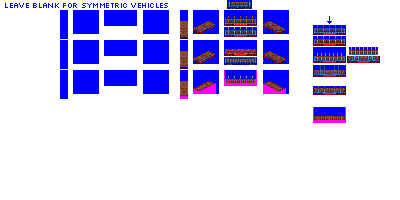
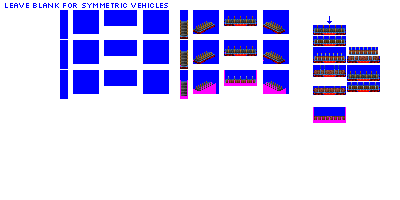
Change: sprites complete for Bolster Wagons

diff --git a/src/vehicles/bolster_cars.py b/src/vehicles/bolster_cars.py
@@ -4,9 +4,8 @@ from train import BolsterCarConsist, FreightCar
 def main():
     # --------------- pony ----------------------------------------------------------------------
 
-    """
     consist = BolsterCarConsist(roster_id='pony',
-                                  base_numeric_id=1140,
+                                  base_numeric_id=5280,
                                   gen=1,
                                   subtype='A',
                                   sprites_complete=True)
@@ -17,7 +16,7 @@ def main():
     # no gen 2A, gen 1A continues in pony
 
     consist = BolsterCarConsist(roster_id='pony',
-                                  base_numeric_id=1150,
+                                  base_numeric_id=5290,
                                   gen=2,
                                   subtype='B',
                                   sprites_complete=True)
@@ -26,7 +25,7 @@ def main():
                      chassis='4_axle_gapped_24px')
 
     consist = BolsterCarConsist(roster_id='pony',
-                                  base_numeric_id=1350,
+                                  base_numeric_id=5300,
                                   gen=3,
                                   subtype='A',
                                   sprites_complete=True)
@@ -35,7 +34,7 @@ def main():
                      chassis='2_axle_filled_16px')
 
     consist = BolsterCarConsist(roster_id='pony',
-                                  base_numeric_id=1160,
+                                  base_numeric_id=5310,
                                   gen=3,
                                   subtype='B',
                                   sprites_complete=True)
@@ -44,7 +43,7 @@ def main():
                      chassis='4_axle_gapped_24px')
 
     consist = BolsterCarConsist(roster_id='pony',
-                                  base_numeric_id=2550,
+                                  base_numeric_id=5320,
                                   gen=3,
                                   subtype='C',
                                   sprites_complete=True)
@@ -53,7 +52,7 @@ def main():
                      chassis='4_axle_gapped_32px')
 
     consist = BolsterCarConsist(roster_id='pony',
-                                  base_numeric_id=1560,
+                                  base_numeric_id=5330,
                                   gen=4,
                                   subtype='A',
                                   sprites_complete=True)
@@ -62,7 +61,7 @@ def main():
                      chassis='2_axle_filled_16px')
 
     consist = BolsterCarConsist(roster_id='pony',
-                                  base_numeric_id=2540,
+                                  base_numeric_id=5340,
                                   gen=4,
                                   subtype='B',
                                   sprites_complete=True)
@@ -71,7 +70,7 @@ def main():
                      chassis='4_axle_filled_24px')
 
     consist = BolsterCarConsist(roster_id='pony',
-                                  base_numeric_id=2530,
+                                  base_numeric_id=5350,
                                   gen=4,
                                   subtype='C',
                                   sprites_complete=True)
@@ -80,7 +79,7 @@ def main():
                      chassis='4_axle_gapped_32px')
 
     consist = BolsterCarConsist(roster_id='pony',
-                                  base_numeric_id=2520,
+                                  base_numeric_id=5360,
                                   gen=5,
                                   subtype='B',
                                   sprites_complete=True)
@@ -88,7 +87,6 @@ def main():
     consist.add_unit(type=FreightCar,
                      chassis='4_axle_filled_greebled_24px')
 
-    """
     consist = BolsterCarConsist(roster_id='pony',
                                   base_numeric_id=5250,
                                   gen=5,
@@ -98,22 +96,20 @@ def main():
     consist.add_unit(type=FreightCar,
                      chassis='4_axle_filled_greebled_32px')
 
-    """
     consist = BolsterCarConsist(roster_id='pony',
-                                  base_numeric_id=1630,
+                                  base_numeric_id=5260,
                                   gen=6,
                                   subtype='B',
                                   sprites_complete=True)
 
     consist.add_unit(type=FreightCar,
-                     chassis='4_axle_1cc_filled_24px')
+                     chassis='2_axle_1cc_filled_24px')
 
     consist = BolsterCarConsist(roster_id='pony',
-                                  base_numeric_id=1640,
+                                  base_numeric_id=5270,
                                   gen=6,
                                   subtype='C',
                                   sprites_complete=True)
 
     consist.add_unit(type=FreightCar,
                      chassis='4_axle_1cc_filled_32px')
-    """

diff --git a/src/polar_fox/constants.py b/src/polar_fox/constants.py
@@ -219,13 +219,13 @@ piece_vehicle_type_to_sprites_maps = {
                                       'coil': ['copper_coils_eye_longitudinal_1', 'steel_coils_eye_longitudinal_1', 'tarps_grey_1'], # tarps_grey_1 for DFLT
                                       'flat': ['barrels_silver_1', 'copper_coils_eye_to_sky_1', 'crates_1', 'ingots_1', 'logs_1',
                                                'lumber_planks_1', 'paper_coils_eye_to_sky_1', 'pipes_1',
-                                               'steel_coils_eye_to_sky_1', 'steel_wire_rod_1',
+                                               'steel_coils_eye_to_sky_1', 'steel_slab_1', 'steel_wire_rod_1',
                                                'tarps_grey_1', 'tarps_blue_1', 'tarps_gold_1', 'tarps_red_1'],
                                       'long_products': ['ingots_1', 'logs_1', 'lumber_planks_1', 'pipes_1',
-                                                        'steel_wire_rod_1', 'tarps_grey_1'], # tarps_grey_1 for DFLT
+                                                        'steel_slab_1', 'steel_wire_rod_1', 'tarps_grey_1'], # tarps_grey_1 for DFLT
                                       'open': ['barrels_silver_1', 'coffee_1', 'copper_coils_eye_to_sky_1', 'crates_1', 'fruit_1', 'ingots_1', 'logs_1',
                                                'lumber_planks_1', 'nuts_1', 'paper_coils_eye_to_sky_1', 'pipes_1',
-                                               'steel_coils_eye_to_sky_1', 'steel_wire_rod_1',
+                                               'steel_coils_eye_to_sky_1', 'steel_slab_1', 'steel_wire_rod_1',
                                                'tarps_grey_1', 'tarps_blue_1', 'tarps_gold_1', 'tarps_red_1'],
                                       'tree_length_logs': ['logs_2'],
                                      }
@@ -242,13 +242,14 @@ piece_sprites_to_cargo_labels_maps = {
                                       'fruit_1': ['FRUT'],
                                       'ingots_1': ['ALUM', 'ZINC'],
                                       'logs_1': ['WOOD'],
-                                      'logs_2': ['WOOD', 'DFLT'],
+                                      'logs_2': ['DFLT'], # logs_2 is intended for vehicles that *only* use the log sprite, so just provide DFLT to avoid duplicate warnings from nmlc
                                       'lumber_planks_1': ['WDPR'],
                                       'nuts_1': ['NUTS'],
                                       'paper_coils_eye_to_sky_1': ['PAPR'],
                                       'pipes_1': ['PIPE'],
                                       'steel_coils_eye_longitudinal_1': ['STEL', 'METL', 'STAL', 'STCB', 'STST', 'STSH'],
-                                      'steel_coils_eye_to_sky_1': ['STEL', 'METL', 'STAL', 'STCB', 'STST', 'STSH'],
+                                      'steel_coils_eye_to_sky_1': ['STEL', 'METL', 'STAL', 'STST', 'STSH'],
+                                      'steel_slab_1': ['STCB'],
                                       'steel_wire_rod_1': ['STWR'],
                                       'tarps_blue_1': ['FMSP'],
                                       'tarps_gold_1': ['ENSP'],
